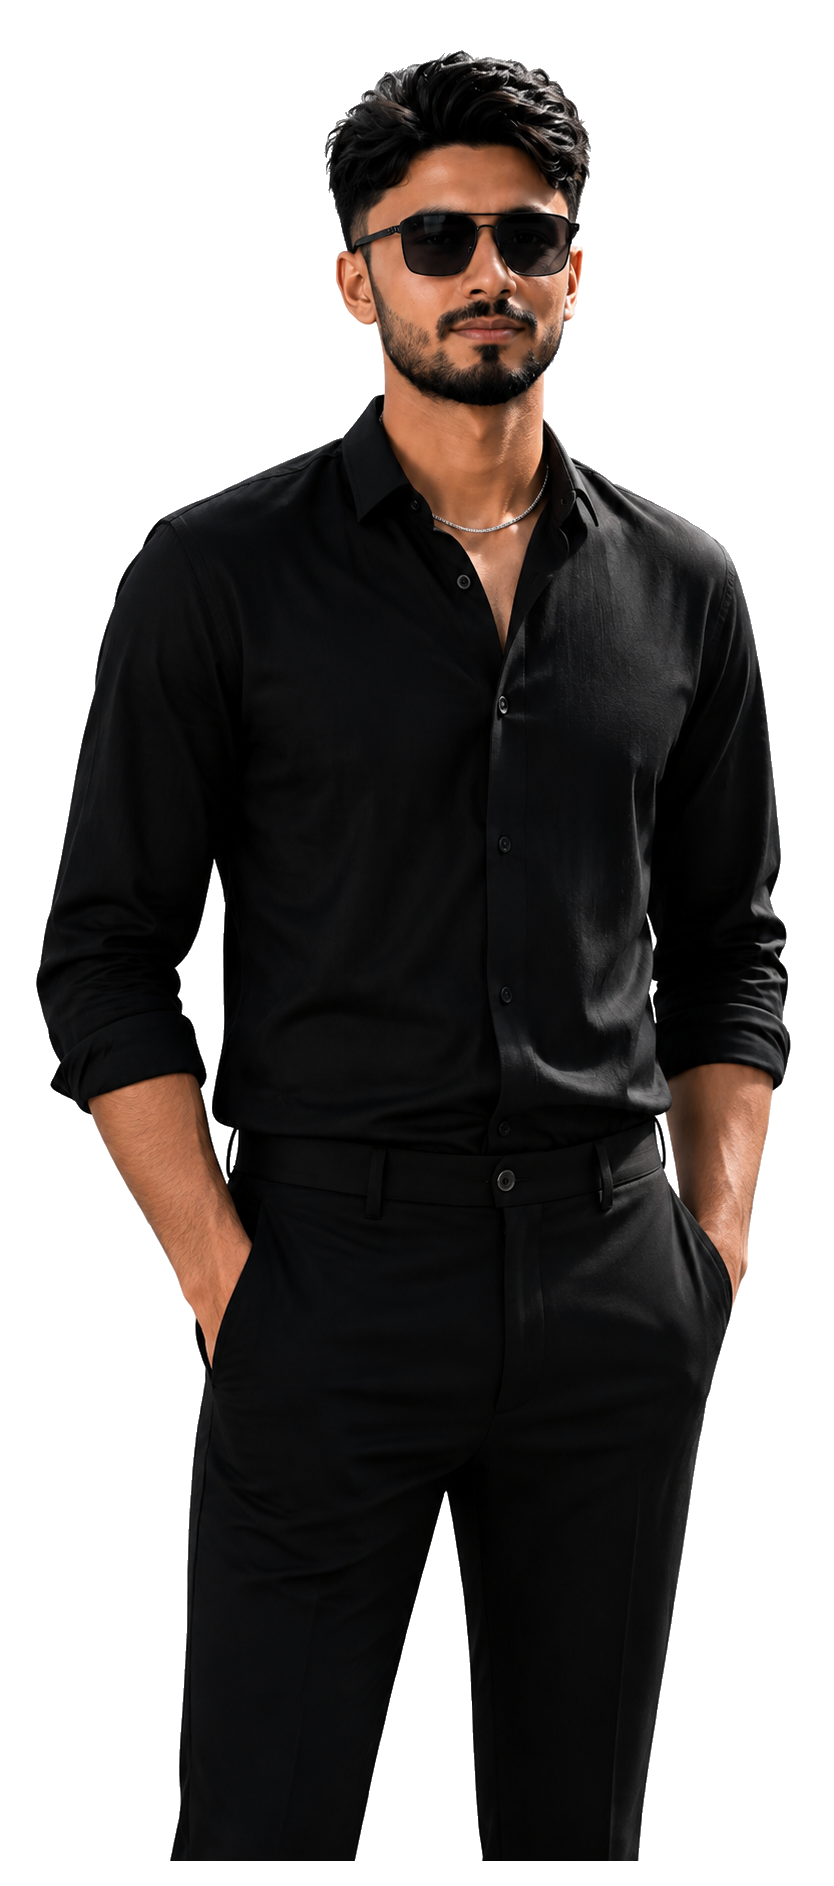
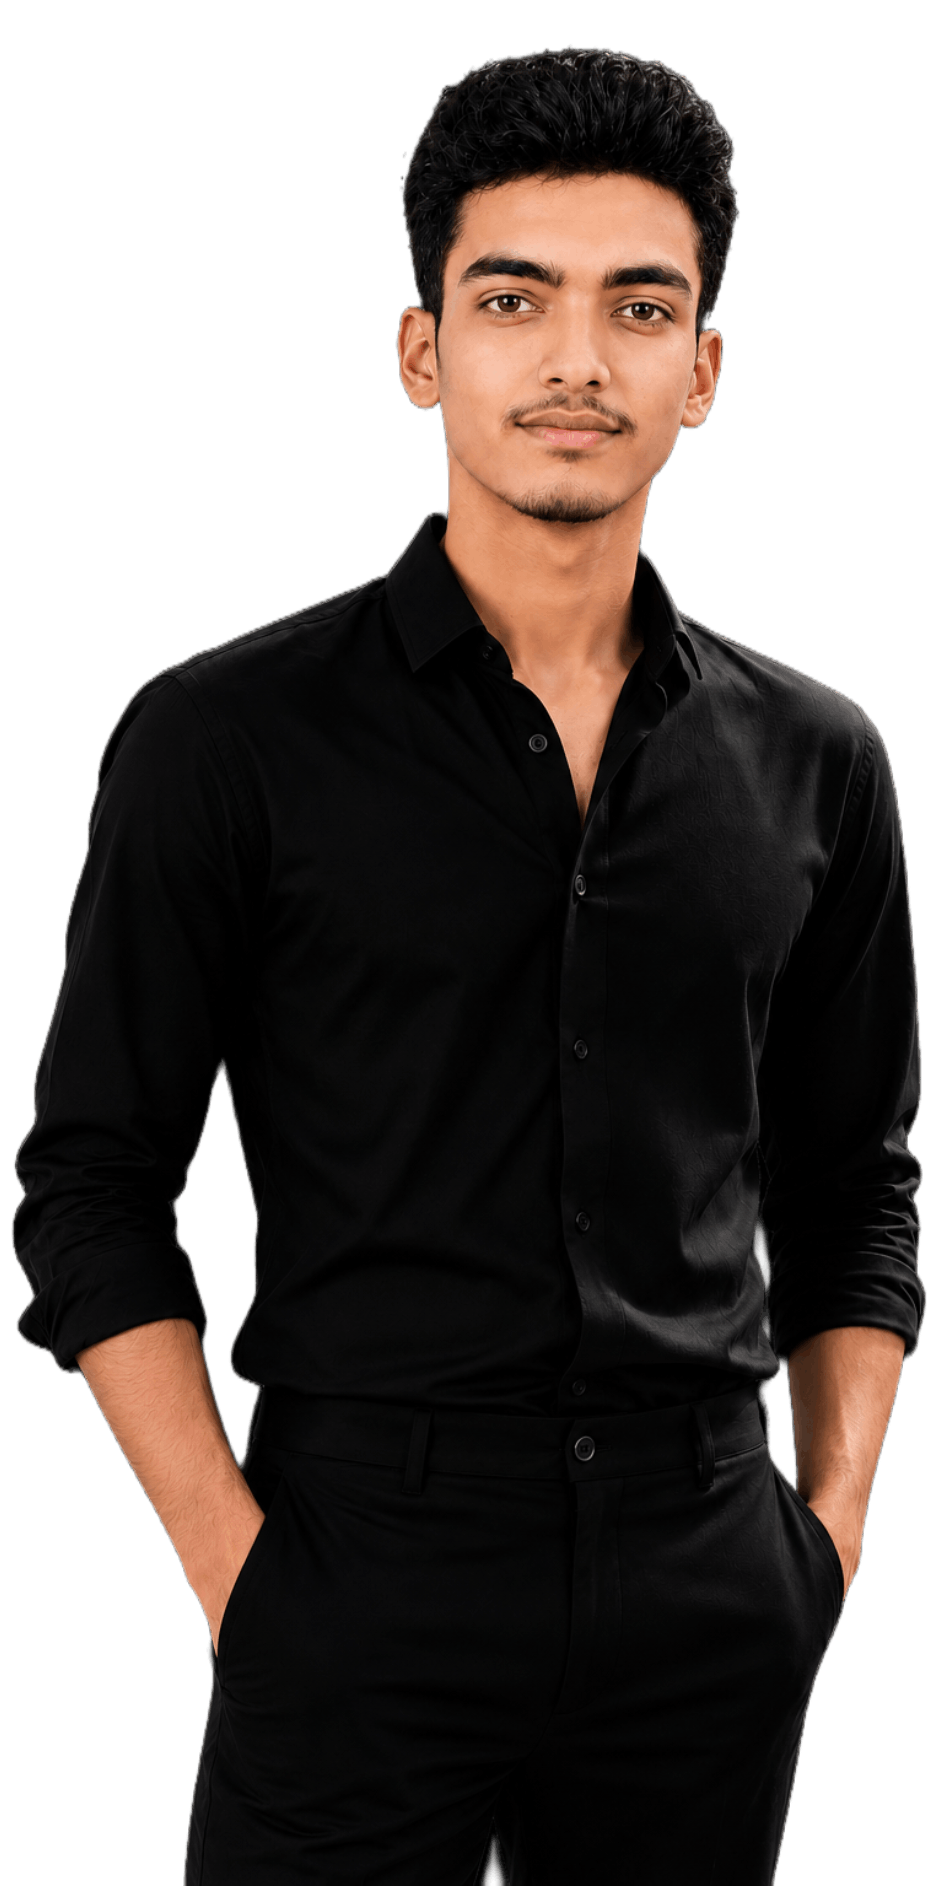
Customize portfolio branding and clean up vite config

Changed region(s): [[0.0, 0.0, 0.9976, 1.0], [0.5923, 0.6151, 0.6235, 0.6458]]

diff --git a/src/components/Contact.jsx b/src/components/Contact.jsx
@@ -116,7 +116,7 @@ const ContactSection = () => {
                         {/* Email */}
                         <div className="block">
                             <p className="text-gray-400 text-sm mb-2">Email:</p>
-                            <a href="mailto:msgoat550@gmail.com" className="text-lg md:text-xl tracking-wide hover:text-[#ccff00] transition-colors break-all">msgoat550@gmail.com</a>
+                            <a href="mailto:saziddeveloper@gmail.com" className="text-lg md:text-xl tracking-wide hover:text-[#ccff00] transition-colors break-all">saziddeveloper@gmail.com</a>
                         </div>
 
                         {/* Phone / Role */}
@@ -129,21 +129,21 @@ const ContactSection = () => {
                         <div className="mt-2 md:mt-4 flex flex-col items-start">
                             <p className="text-gray-400 text-sm mb-4">Follow us</p>
                             <div className="flex items-center justify-start gap-3">
-                                <a href="https://www.instagram.com/hxniii_syed?igsh=MWJsY2FmYW1na3Nubw==" target="_blank" rel="noopener noreferrer" className="w-10 h-10 rounded-full bg-white/10 flex items-center justify-center hover:bg-white/20 transition-colors">
+                                <a href="https://www.instagram.com/saziddeveloper" target="_blank" rel="noopener noreferrer" className="w-10 h-10 rounded-full bg-white/10 flex items-center justify-center hover:bg-white/20 transition-colors">
                                     <svg xmlns="http://www.w3.org/2000/svg" className="w-4 h-4 text-white" viewBox="0 0 24 24" fill="none" stroke="currentColor" strokeWidth="2" strokeLinecap="round" strokeLinejoin="round">
                                         <rect width="20" height="20" x="2" y="2" rx="5" ry="5"/>
                                         <path d="M16 11.37A4 4 0 1 1 12.63 8 4 4 0 0 1 16 11.37z"/>
                                         <line x1="17.5" x2="17.51" y1="6.5" y2="6.5"/>
                                     </svg>
                                 </a>
-                                <a href="https://www.linkedin.com/in/syed-hassan-dildar-b40649400" target="_blank" rel="noopener noreferrer" className="w-10 h-10 rounded-full bg-white/10 flex items-center justify-center hover:bg-white/20 transition-colors">
+                                <a href="https://www.linkedin.com/in/saziddeveloper" target="_blank" rel="noopener noreferrer" className="w-10 h-10 rounded-full bg-white/10 flex items-center justify-center hover:bg-white/20 transition-colors">
                                     <svg xmlns="http://www.w3.org/2000/svg" className="w-4 h-4 text-white" viewBox="0 0 24 24" fill="none" stroke="currentColor" strokeWidth="2" strokeLinecap="round" strokeLinejoin="round">
                                         <path d="M16 8a6 6 0 0 1 6 6v7h-4v-7a2 2 0 0 0-2-2 2 2 0 0 0-2 2v7h-4v-7a6 6 0 0 1 6-6z"/>
                                         <rect width="4" height="12" x="2" y="9"/>
                                         <circle cx="4" cy="4" r="2"/>
                                     </svg>
                                 </a>
-                                <a href="https://github.com/Hxni786" target="_blank" rel="noopener noreferrer" className="w-10 h-10 rounded-full bg-white/10 flex items-center justify-center hover:bg-white/20 transition-colors">
+                                <a href="https://github.com/saziddeveloper" target="_blank" rel="noopener noreferrer" className="w-10 h-10 rounded-full bg-white/10 flex items-center justify-center hover:bg-white/20 transition-colors">
                                     <svg xmlns="http://www.w3.org/2000/svg" className="w-4 h-4 text-white" viewBox="0 0 24 24" fill="none" stroke="currentColor" strokeWidth="2" strokeLinecap="round" strokeLinejoin="round">
                                         <path d="M9 19c-5 1.5-5-2.5-7-3m14 6v-3.87a3.37 3.37 0 0 0-.94-2.61c3.14-.35 6.44-1.54 6.44-7A5.44 5.44 0 0 0 20 4.77 5.07 5.07 0 0 0 19.91 1S18.73.65 16 2.48a13.38 13.38 0 0 0-7 0C6.27.65 5.09 1 5.09 1A5.07 5.07 0 0 0 5 4.77a5.44 5.44 0 0 0-1.5 3.78c0 5.42 3.3 6.61 6.44 7A3.37 3.37 0 0 0 9 18.13V22"></path>
                                     </svg>

diff --git a/src/components/Footer.jsx b/src/components/Footer.jsx
@@ -21,8 +21,8 @@ const Footer = () => {
           <div className="flex flex-col gap-6 w-full md:w-auto">
             <div>
               <p className="text-gray-400 text-sm mb-2">Connect with me</p>
-              <a href="mailto:msgoat550@gmail.com" className="text-xl md:text-5xl font-medium hover:text-[#ccff00] transition-colors break-words">
-                msgoat550@gmail.com
+              <a href="mailto:saziddeveloper@gmail.com" className="text-xl md:text-5xl font-medium hover:text-[#ccff00] transition-colors break-words">
+                saziddeveloper@gmail.com
               </a>
             </div>
 
@@ -47,21 +47,21 @@ const Footer = () => {
 
         {/* Middle Section - Socials */}
         <div className="flex flex-wrap justify-between items-center py-6 border-t border-white/10 mb-4 text-sm md:text-lg font-medium">
-          <a href="https://www.instagram.com/hxniii_syed?igsh=MWJsY2FmYW1na3Nubw==" target="_blank" rel="noopener noreferrer" className="hover:text-[#ccff00] transition-colors">Instagram</a>
-          <a href="https://www.linkedin.com/in/syed-hassan-dildar-b40649400" target="_blank" rel="noopener noreferrer" className="hover:text-[#ccff00] transition-colors">LinkedIn</a>
-          <a href="https://github.com/Hxni786" target="_blank" rel="noopener noreferrer" className="hover:text-[#ccff00] transition-colors">GitHub</a>
+          <a href="https://www.instagram.com/saziddeveloper" target="_blank" rel="noopener noreferrer" className="hover:text-[#ccff00] transition-colors">Instagram</a>
+          <a href="https://www.linkedin.com/in/saziddeveloper" target="_blank" rel="noopener noreferrer" className="hover:text-[#ccff00] transition-colors">LinkedIn</a>
+          <a href="https://github.com/saziddeveloper" target="_blank" rel="noopener noreferrer" className="hover:text-[#ccff00] transition-colors">GitHub</a>
         </div>
 
         {/* Huge Text Section */}
         <div className="w-full text-center flex-1 flex items-center justify-center min-h-0">
           <h1 className="text-[11vw] font-bold leading-none tracking-tighter" style={{ fontFamily: 'Inter, sans-serif' }}>
-            SYED HASSAN
+            Ashaduzzaman Sazid
           </h1>
         </div>
 
         {/* Bottom Section */}
         <div className="flex flex-col md:flex-row justify-between items-center text-xs text-gray-400 mt-auto pt-6">
-          <p>© {new Date().getFullYear()} Syed Hassan Dildar. All Rights Reserved.</p>
+          <p>© {new Date().getFullYear()} SAZIDDEVELOPER. All Rights Reserved.</p>
           <div className="flex gap-6 mt-4 md:mt-0">
             <a href="#" className="hover:text-white transition-colors">Privacy policy</a>
             <a href="#" className="hover:text-white transition-colors">Terms and conditions</a>

diff --git a/src/components/Services.jsx b/src/components/Services.jsx
@@ -90,20 +90,20 @@ const servicesData = [
       'Multi-User Social & Directory Engines'
     ]
   },
-  {
-    id: '06',
-    title: 'TALKING VIDEO & AI AVATAR PORTFOLIOS',
-    description: 'I design interactive video portfolio applications and AI-driven avatar experiences that engage visitors with real-time video presentation, speech synthesis, dynamic multimedia showcases, and custom video player controls.',
-    capabilities: [
-      'Interactive Talking Video Presentation',
-      'Framer Motion & AOS Scroll Animations',
-      'AI Video Integration & Speech Sync',
-      'Custom Video Player Controls & Playback',
-      'Responsive Web Portfolio Layouts'
-    ],
-    buttonText: 'SEE DEMO PORTFOLIO',
-    buttonHref: 'https://talking-video-portfolio.vercel.app/'
-  }
+  // {
+  //   id: '06',
+  //   title: 'TALKING VIDEO & AI AVATAR PORTFOLIOS',
+  //   description: 'I design interactive video portfolio applications and AI-driven avatar experiences that engage visitors with real-time video presentation, speech synthesis, dynamic multimedia showcases, and custom video player controls.',
+  //   capabilities: [
+  //     'Interactive Talking Video Presentation',
+  //     'Framer Motion & AOS Scroll Animations',
+  //     'AI Video Integration & Speech Sync',
+  //     'Custom Video Player Controls & Playback',
+  //     'Responsive Web Portfolio Layouts'
+  //   ],
+  //   buttonText: 'SEE DEMO PORTFOLIO',
+  //   buttonHref: 'https://talking-video-portfolio.vercel.app/'
+  // }
 ];
 
 const Services = () => {
@@ -218,7 +218,7 @@ const Services = () => {
         {/* Giant Title */}
         <div className="flex flex-col md:flex-row items-start justify-end gap-2 md:gap-4 lg:gap-8 pr-2 md:pr-0 text-right">
           <h2 ref={titleRef} className="text-3xl sm:text-4xl md:text-7xl lg:text-8xl font-black tracking-tighter text-transparent bg-clip-text bg-gradient-to-b from-white via-gray-300 to-gray-800 drop-shadow-2xl leading-[1.1] md:leading-[0.9] text-right">
-            WHAT WE<br/>CAN DO
+            WHAT I<br/>CAN DO
           </h2>
         </div>
       </div>

diff --git a/src/components/About.jsx b/src/components/About.jsx
@@ -12,8 +12,8 @@ const toolsSkills = ["Git", "GitHub", "Vercel", "Postman", "VS Code", "npm", "AO
 
 const aboutWords = [
   { text: "Hey," }, { text: "I'm" },
-  { text: "Syed Hassan Dildar.", className: "font-bold text-transparent bg-clip-text bg-gradient-to-r from-white to-gray-400" },
-  { text: "A" }, { text: "Full-Stack" }, { text: "Developer" }, { text: "specializing" }, { text: "in" }, { text: "building" }, { text: "scalable" }, { text: "web," }, { text: "mobile," }, { text: "and" }, { text: "3D" }, { text: "applications" }, { text: "using" },
+  { text: "Ashaduzzaman Sazid.", className: "font-bold text-transparent bg-clip-text bg-gradient-to-r from-white to-gray-400" },
+  { text: "A" }, { text: "Full-Stack" }, { text: "Developer" }, { text: "specializing" }, { text: "in" }, { text: "building" }, { text: "scalable" }, { text: "web" }, { text: "applications," }, { text: "softwares" }, { text: "and" }, { text: "apps" }, { text: "using" },
   { text: "React,", className: "text-white font-medium" },
   { text: "React Native,", className: "text-white font-medium" },
   { text: "Node.js,", className: "text-white font-medium" },

diff --git a/src/components/Hero.jsx b/src/components/Hero.jsx
@@ -3,7 +3,7 @@ import gsap from 'gsap';
 import centerImage from '../assets/hero_assets/hero_center.png';
 
 const Hero = ({ onPreloadComplete }) => {
-  const [text, setText] = useState('HASSAN');
+  const [text, setText] = useState('SAZID');
   const containerRef = useRef(null);
   const textRef = useRef(null);
   const subtitleRef = useRef(null);
@@ -16,7 +16,7 @@ const Hero = ({ onPreloadComplete }) => {
     document.body.style.overflow = 'hidden';
 
     const target = "PORTFOLIO";
-    const start = "HASSAN";
+    const start = "DEVELOPER";
     let iterations = 0;
     let intervalId;
     let timeoutId;
@@ -148,7 +148,7 @@ const Hero = ({ onPreloadComplete }) => {
         <img
           src={centerImage}
           alt="Hero Center Graphic"
-          className="w-[80vw] max-w-xs sm:max-w-sm md:max-w-md object-contain drop-shadow-[0_20px_50px_rgba(0,0,0,0.5)]"
+          className="w-[110vw] max-w-xl sm:max-w-lg md:max-w-xl object-contain drop-shadow-[0_20px_50px_rgba(0,0,0,0.5)]"
         />
       </div>
     </section>

diff --git a/src/components/Navbar.jsx b/src/components/Navbar.jsx
@@ -50,7 +50,7 @@ const Navbar = () => {
       <nav className={`fixed top-0 left-0 w-full z-50 flex items-center justify-between px-6 py-5 md:px-12 md:py-6 transition-all duration-700 ease-in-out ${show ? 'translate-y-0 opacity-100' : '-translate-y-full opacity-0'} ${isMenuOpen ? 'bg-black/90 backdrop-blur-md' : 'bg-transparent'}`}>
         {/* Logo */}
         <div className="text-white font-black text-xl md:text-2xl tracking-widest uppercase cursor-pointer relative z-50">
-          HASSAN
+          SAZIDDEVELOPER
         </div>
 
         {/* Navigation Links (Desktop) */}

diff --git a/index.html b/index.html
@@ -4,7 +4,8 @@
     <meta charset="UTF-8" />
     <link rel="icon" type="image/svg+xml" href="/favicon.svg" />
     <meta name="viewport" content="width=device-width, initial-scale=1.0" />
-    <title>Syed Hassan Dildar — Full Stack Developer</title>
+    <title>Ashaduzzaman Sazid — Full Stack Developer</title>
+    <link rel="icon" type="image/x-icon" href="/favicon.png">
   </head>
   <body>
     <div id="root"></div>

diff --git a/vite.config.js b/vite.config.js
@@ -5,6 +5,7 @@ import tailwindcss from '@tailwindcss/vite'
 // https://vite.dev/config/
 export default defineConfig({
   plugins: [react(), tailwindcss()],
+  base: '/My-Portfolio/',
   server: {
     host: true
   }
